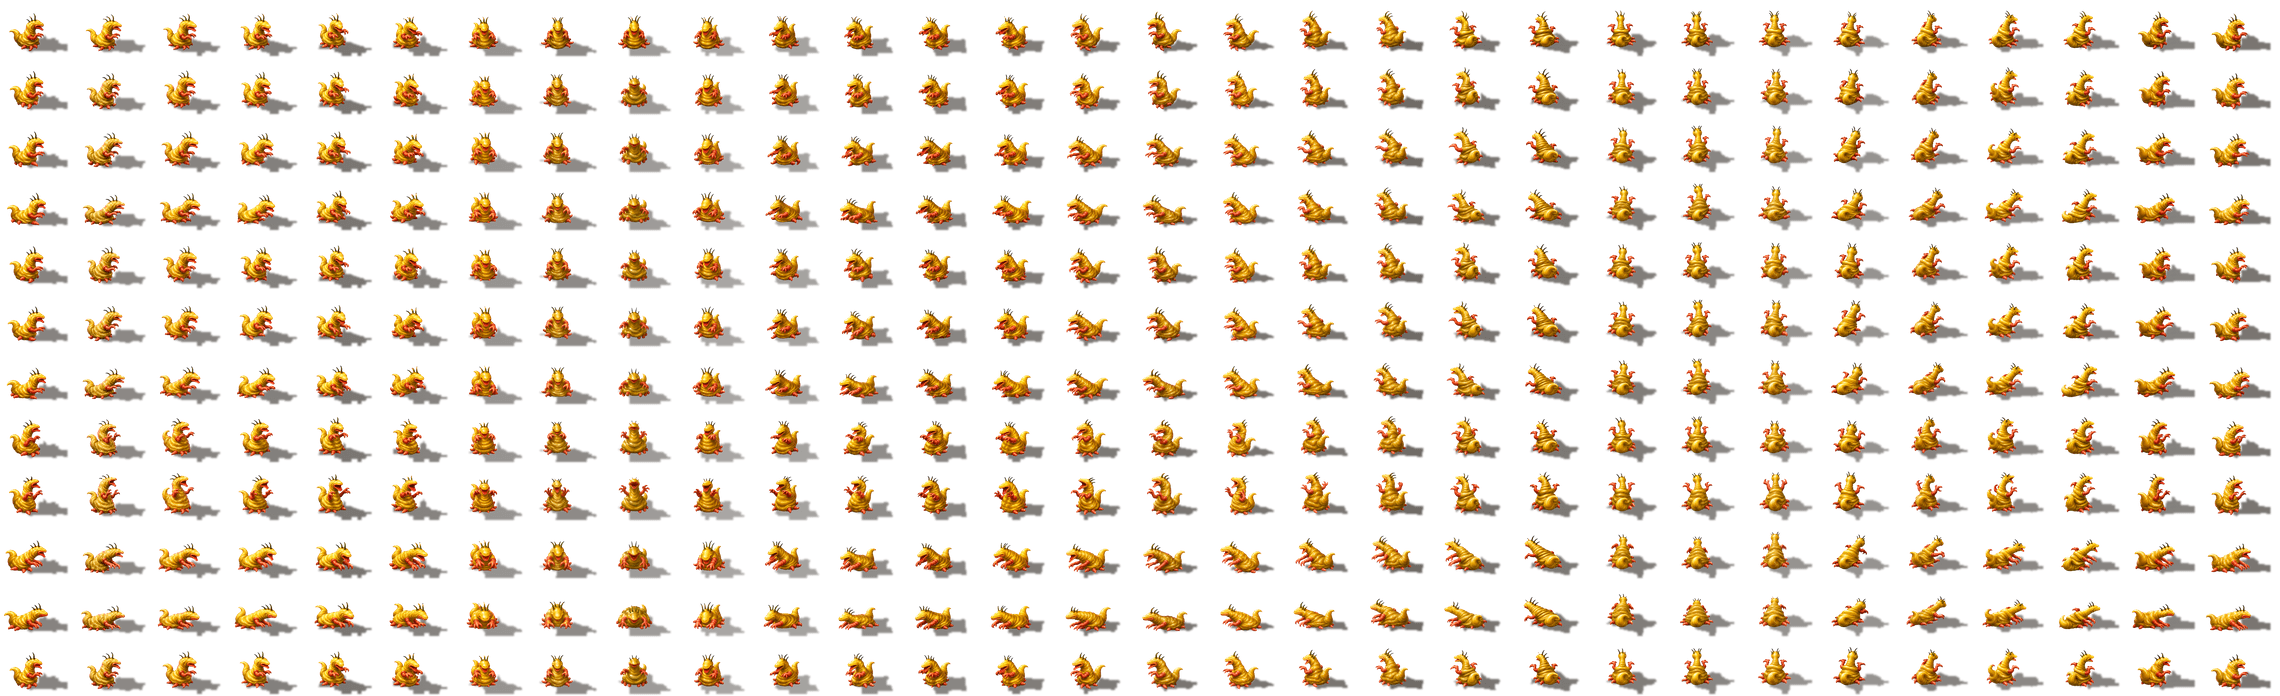
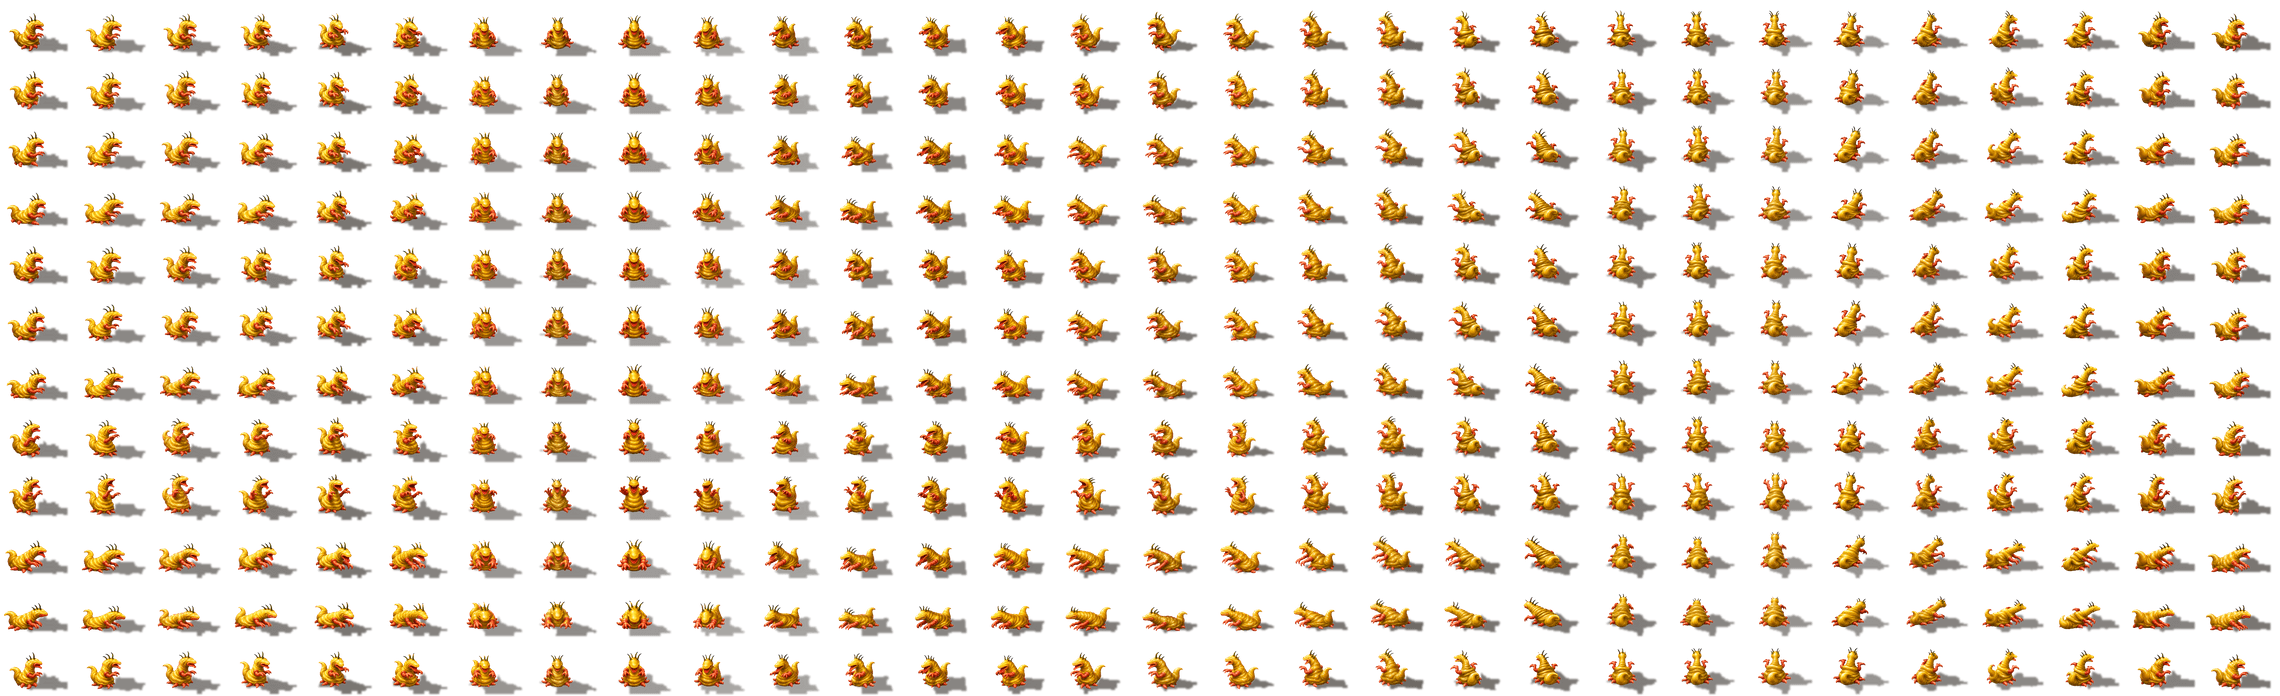
Zagnoid (IC2): headings 1 and 8 animation redone (colour drift); comment says the de-drifted slug sits up to ~4 px from Flash's spot; README battle setup notes

diff --git a/web/src/game/attack/monsterSprites.ts b/web/src/game/attack/monsterSprites.ts
@@ -501,8 +501,10 @@ export const REPAINT_LAYOUTS: Readonly<Record<string, SheetLayoutOverride>> = {
   },
   // Zagnoid (IC2): 76x58 cells. The Flash cell is 64.4 px wide (1933 px / 30), drawn at fractional
   // x; the repaint cuts it at whole pixels as a 64 px cell and adds 6 px each side, 10 on top and 2
-  // at the bottom, so the anchor moves by (6, 10) and the slug and its long cast shadow stay put.
-  // 30 headings on 30 columns, as Flash. Rows: 0 idle, 1-6 crawl, 7-11 attack (rear back, rear up,
+  // at the bottom, so the anchor moves by (6, 10) and the slug stands on the same ground line over
+  // Flash's own long cast shadow. The Flash art creeps right 0.25 px a column (laid out 64.65 apart,
+  // cut 64.4 apart) and jumps back between headings 29 and 0; the repaint takes that out, so it sits
+  // up to about 4 px either way from Flash's spot. 30 headings on 30 columns, as Flash. Rows: 0 idle, 1-6 crawl, 7-11 attack (rear back, rear up,
   // lunge with claws and bite, follow-through, recover). Flash's single pose glided.
   "monsters/zagnoid.png": {
     frameWidth: 76,

diff --git a/web/src/game/attack/monsterAnimLayout.test.ts b/web/src/game/attack/monsterAnimLayout.test.ts
@@ -336,7 +336,7 @@ describe("applyLayout", () => {
     expect(sheet.strikeFrame).toBe(2);
   });
 
-  it("the Zagnoid layout matches the animated PNG, cuts whole-pixel cells and keeps the slug where it was", () => {
+  it("the Zagnoid layout matches the animated PNG, cuts whole-pixel cells and keeps the slug on its ground line", () => {
     const old = MONSTER_SPRITES["IC2"];
     if (!old) throw new Error("no IC2");
     const sheet = spriteFor("IC2");
@@ -352,7 +352,7 @@ describe("applyLayout", () => {
     expect(sheet.width).toBe(76 * 30);
     expect(sheet.height).toBe(58 * 12);
     expect(frameRect(sheet, 29, 11)).toEqual({ x: 29 * 76, y: 11 * 58, width: 76, height: 58 });
-    // 6 px added left and right, 10 px on top: the slug stays on the same ground point.
+    // 6 px added left and right, 10 px on top: the anchor moves with the padding.
     expect(sheet.anchorX).toBe(old.anchorX + 6);
     expect(sheet.anchorY).toBe(old.anchorY + 10);
     expect(sheet.animations.walk).toEqual({ first: 1, count: 6, ticksPerFrame: 8 });

diff --git a/web/src/game/attack/sheetVersions.ts b/web/src/game/attack/sheetVersions.ts
@@ -69,9 +69,9 @@ export const SHEET_VERSIONS: Readonly<Record<string, string>> = {
   "monsters/spurtz-anim@4x.png": "vru5",
   "monsters/spurtz-anim@2x.png": "a4nx",
   "monsters/spurtz-anim.png": "30r1",
-  "monsters/zagnoid-anim@4x.png": "2dil3",
-  "monsters/zagnoid-anim@2x.png": "r9tx",
-  "monsters/zagnoid-anim.png": "894b",
+  "monsters/zagnoid-anim@4x.png": "2dch0",
+  "monsters/zagnoid-anim@2x.png": "ranj",
+  "monsters/zagnoid-anim.png": "8ac3",
   "monsters/ape_1-repaint@4x.png": "2lpjk",
   "monsters/ape_1-repaint@2x.png": "qtol",
   "monsters/ape_1-repaint.png": "82zk",

diff --git a/web/tools/inferno-monster-kit/README.md b/web/tools/inferno-monster-kit/README.md
@@ -100,7 +100,19 @@ about 25 minutes of Codex time (calls run 3-4 at once). Codex calls for IC2 (all
   234-306 degrees); the three-quarter back views outside it say the snout shows in profile, as Flash does.
 - **Facing check** is now body-centred (`common.facing_scores`): the old whole-cell diff is decided by
   position on an off-centre cell.
-- Codex calls: see the IC2 line under Steps.
+- Codex calls: see the IC2 line under Steps (plus 2 more redos after it: headings 1 and 8, colour drift found by
+  comparing each heading's mean frame colour with its idle frame; 42 calls in all).
+- `compare.py` writes `mirror-check.png` for mirrored headings only; with every heading painted it means nothing.
+
+## Battle shot setup (own database copy, never `bym`)
+
+- The server needs `INFERNO_ENABLED=on` (every `/bm/inferno/*` route answers "The Inferno is not open yet"
+  without it): add it to the helper's server command.
+- yardtester (user 2503, password `Dev12345!` in the `inferno_mon` copy): Inferno save basesaveid 3401. Set
+  `monsters.housed` (e.g. `{"IC1": 0, "IC2": 60}`) and `lockerdata.<ID>` = `{"t": 2}`. The tribe attack flings at
+  most the Housing Bunker's capacity (`infernoTribeFlingCapacity`: 200 at level 1, 1140 at level 5), so raise
+  the bunker (building id 8, type 128) with `l` and `monsters.space` to match.
+- Weakest tribe at yardtester's Inferno level (21): "Moloch's Minions, Level 19" (baseid 228).
 - **Flash likeness of IC1** (lead's call): the Modern crown is a little taller and the body a little
   redder than Flash's (crown 38% vs 32% of the height, yellow 31% vs 34% of the pixels). A sample at
   Flash proportions (one call, not used) is in `art-work/IC1-flashprop` and
